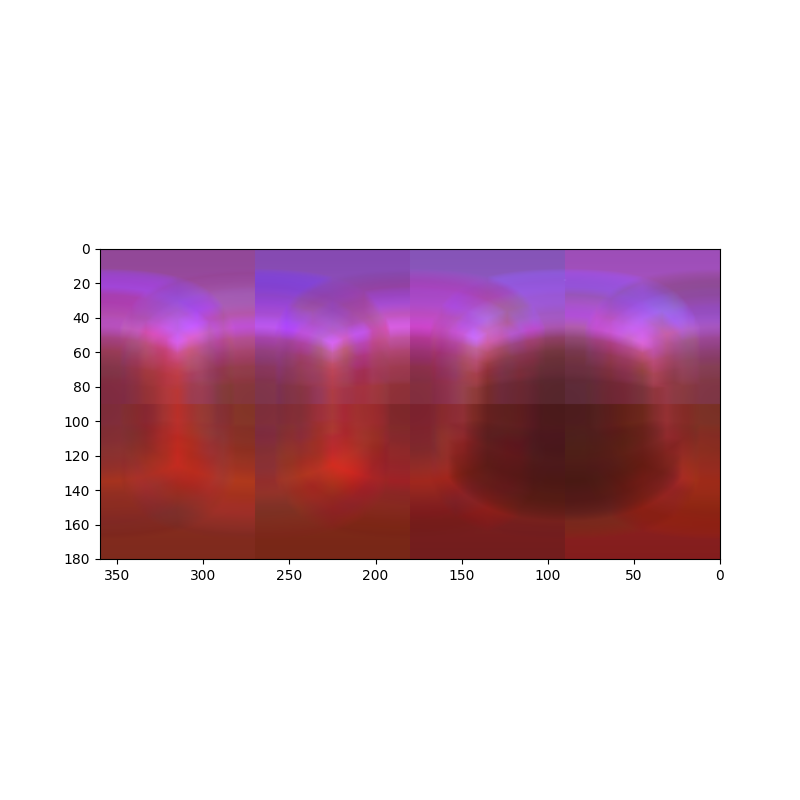
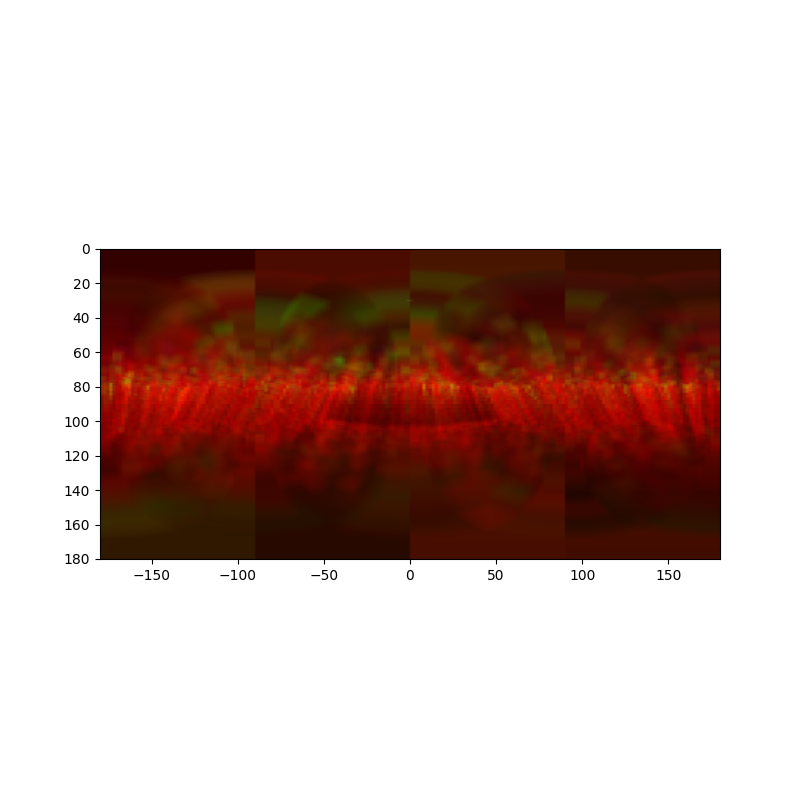
Merge prep

Changed region(s): [[0.125, 0.3125, 0.9062, 0.7188]]

diff --git a/src/simulation.py b/src/simulation.py
@@ -21,6 +21,9 @@ class Atmosphere:
         for idx in np.ndindex(self._shape):
             self._source_function[idx] = []  # liste vide par voxel
 
+        self._source_function_integrated = None
+        self._spectral_source_function = None
+
     def in_box(self, position, index=False):
         if index:
             return all(0 <= position[i] < self._shape[i] for i in range(3))
@@ -137,16 +140,23 @@ class Atmosphere:
         if return_lengths:
             return length_in_cell
         
-    def source_function_integrated(self):
-        """Compute integrated (over λ) energy per cell on demand."""
-        integrated = np.zeros(self._shape, dtype=float)
+    def integrate_source_function(self):
+        """Compute total luminosity per cell on demand."""
+        total = np.zeros(self._shape, dtype=float)
         for idx in np.ndindex(self._shape):
             ev = self._source_function[idx]
             if ev:
-                integrated[idx] = sum(e for (_, e) in ev)
-        return integrated
+                total[idx] = sum(e for (_, e) in ev)
+        self._source_function_integrated = total
+        return total
     
-    def source_function_spectral(self, wavelength_bins):
+    def source_function_integrated(self):
+        """Return integrated source function, computing if necessary."""
+        if self._source_function_integrated is None:
+            return self.integrate_source_function()
+        return self._source_function_integrated
+
+    def compute_source_function_spectral(self, wavelength_bins):
         """Compute spectral energy per cell on demand."""
         n_bins = len(wavelength_bins) - 1
         spectral = np.zeros(self._shape + (n_bins,), dtype=float)
@@ -157,8 +167,14 @@ class Atmosphere:
                     ib = np.searchsorted(wavelength_bins, lam) - 1
                     ib = 0 if ib < 0 else (n_bins-1 if ib >= n_bins else ib)
                     spectral[idx + (ib,)] += e
+        self._spectral_source_function = spectral
         return spectral
     
+    def spectral_source_function(self, wavelength_bins):
+        """Return spectral source function, computing if necessary."""
+        if self._spectral_source_function is None:
+            return self.compute_source_function_spectral(wavelength_bins)
+        return self._spectral_source_function
 
     def cell_size(self):
         return self._cell_size
@@ -249,7 +265,7 @@ class PhotonPacket:
         return self._lambda
 
 class Star:
-    def __init__(self, model= 'Sun',T=None, R=None, D=None, direction= (0, 0)):
+    def __init__(self, model= None,T=None, R=None, D=None, direction= (0, 0)):
         if model == 'Sun':
             self.T = 5778  # Kelvin
             self.R = 6.96e8  # meters
@@ -272,11 +288,13 @@ class Star:
         x = np.asarray(x, dtype=float)
         out = np.empty_like(x)
         small = x < 1e-6
-        out[small]  = x[small]**2
-        out[~small] = x[~small]**3 / (np.exp(x[~small]) - 1.0)
+        """ out[small]  = x[small]**2
+        out[~small] = x[~small]**3 / (np.exp(x[~small]) - 1.0) """
+        out[small] = x[small]
+        out[~small] = x[~small] ** 2 / (np.exp(x[~small]) - 1.0)
         return out  # unnormalized, fine for rejection
     
-    def sample_blackbody_x(self, T, N, x_max=20.0, y_max=1.6):
+    def sample_blackbody_x(self, N, x_max=20.0, y_max=1.6):
         """
         Rejection sample x ~ energy PDF. Returns N samples of x.
         NOTE: we track the *number accepted*, not the number of batches.
@@ -296,7 +314,7 @@ class Star:
         return np.concatenate(kept, axis=0)
     
     def lambda_sample(self, N):
-        x_samples = self.sample_blackbody_x(self.T, N)
+        x_samples = self.sample_blackbody_x(N)
         lam_samples = ((h*c) / k_B).value / (self.T * x_samples)  # store if you need lambda-dependent opacities
         return lam_samples
     
@@ -308,7 +326,10 @@ class Star:
         """
 
         lam_samples = self.lambda_sample(N)
-
+        N_blue = len(lam_samples[(lam_samples < 495e-9)& (lam_samples >= 380e-9)])
+        N_green = len(lam_samples[(lam_samples < 570e-9)& (lam_samples >= 495e-9)])
+        N_red = len(lam_samples[(lam_samples < 700e-9)& (lam_samples >= 570e-9)])
+        print(f"Created {N} photon packets: {N_blue} blue, {N_green} green, {N_red} red.")
         if use_physical_units:
             # flux at distance D (W/m^2)
             flux = self._luminosity / (4.0 * np.pi * (self.D ** 2))
@@ -376,7 +397,7 @@ class Observer:
         # per-bin efficiency (sensitivity) for R,G,B order (len = 3)
         if spectral_efficiency is None:
             # default simple eye-like sensitives (relative)
-            self.spectral_efficiency = np.array([0.6, 1.0, 0.9])
+            self.spectral_efficiency = np.array([0.353, 1.0, 0.075])
         else:
             self.spectral_efficiency = np.asarray(spectral_efficiency, dtype=float)
 
@@ -406,13 +427,13 @@ class Observer:
         return np.arctan(np.clip(self.star.R/ self.star.D, 0.0, 1.0))
 
     # -----------------------------------------------------------
-    def compute_length_in_cells(self, initial_position, depth, direction, source_function_spectral, alpha):
+    def integrate_spectral_lum(self, initial_position, depth, direction, spectral_source_function, alpha):
         """
-        Compute the length of the ray in each cell it traverses.
+        Computes the spectral luminosity along a ray.
         initial_position: (x, y, z) coordinates of the starting point
-        depth: distance to propagate
+        depth: distance to integrate along the ray
         direction: (dx, dy, dz) direction vector
-        Returns: 3D array of lengths in each cell
+        Returns: 3D array of spectral luminosity per bin (blue, green, red)
         """
         length_in_cell = np.zeros((self.atm.shape())+ (self._n_bins,), dtype=float)
 
@@ -430,9 +451,9 @@ class Observer:
         Xcell, Ycell, Zcell = np.floor(initial_position/self.atm.cell_size()).astype(int)
 
         while self.atm.in_box([Xcell, Ycell, Zcell], index=True) and t_curr < depth: 
-            t_next = min(tMaxX, tMaxY, tMaxZ)
-            delta = min(t_next, depth) - t_curr
-            length_in_cell[Xcell, Ycell, Zcell] += alpha * delta * source_function_spectral[Xcell, Ycell, Zcell] * np.exp(-alpha * (depth - t_curr))
+            t_next = min(tMaxX, tMaxY, tMaxZ) # distance to next boundary crossing (from initial position)
+            delta = min(t_next, depth) - t_curr # length traveled in this cell
+            length_in_cell[Xcell, Ycell, Zcell] += alpha * delta * spectral_source_function[Xcell, Ycell, Zcell] * np.exp(-alpha * (depth - t_curr))
 
             if t_next == tMaxX:
                 tMaxX += tDeltaX
@@ -469,7 +490,7 @@ class Observer:
         sigma = sigma_prefactor / (np.array(lam_center) ** 4)
         alpha = sigma * rayleigh_n 
 
-        source_function_spectral = self.atm.source_function_spectral(edges)
+        spectral_source_function = self.atm.spectral_source_function(edges)
 
         # loop pixels
         for j in range(self.ny):
@@ -499,7 +520,7 @@ class Observer:
                 depth = self.atm.distance_to_boundary(self.position, dir_vec)
                 if depth <= 0:
                     continue
-                pixel_spectral = self.compute_length_in_cells(self.position, depth, dir_vec, source_function_spectral, alpha)
+                pixel_spectral = self.integrate_spectral_lum(self.position, depth, dir_vec, spectral_source_function, alpha)
                 
                 if include_star:
                     
@@ -510,7 +531,7 @@ class Observer:
                     cos_angle = np.dot(dir_vec, star_dir)
                     angle = np.arccos(np.clip(cos_angle, -1.0, 1.0))
                     #print("Stellar angular radius (rad):", self.star_angular_radius())
-                    if angle < self.star_angular_radius():
+                    if angle < self.star_angular_radius()*2:
                         print(f"Pixel ({i}, {j}) includes star at angle {angle*180/np.pi} deg")
                         # angular size and solid angle of the star
                         alpha_star = self.star_angular_radius()
@@ -549,14 +570,14 @@ class Observer:
         # normalize per channel with efficiency
         rgb = np.zeros_like(img)
         for c in range(3):
-            rgb[:, :, c] = img[:, :, 2 - c] * self.spectral_efficiency[c]
+            rgb[:, :, c] = img[:, :, 2-c] * self.spectral_efficiency[c]
         # normalize to max
         max_val = np.max(rgb)
         if max_val > 0:
             rgb /= max_val
         plt.figure(figsize=(8, 8))
-        extent = [360,0, 180, 0]
-        plt.imshow(rgb, origin='upper', extent=extent)
+        extent = [-180, 180, 180, 0]
+        plt.imshow(rgb, extent=extent)
         #plt.axis('off')
         plt.savefig('./figures/observer_output.png')
         plt.show()
@@ -578,7 +599,7 @@ class Simulation:
                     (self.atmosphere.shape()[2] * self.atmosphere.cell_size())/2]
         self.observer = Observer( self.atmosphere, self.star, 
                             position=obs_pos, 
-                            image_size=(500, 500), fov_deg=(30, 30), 
+                            image_size=(200, 220), fov_deg=(30, 30), 
                             up=np.array([0.0, 1.0, 0.0]), forward=np.array([0.0, 0.0, 1.0])
                         )
 
@@ -599,10 +620,22 @@ class Simulation:
                     photon.move()
                     break
 
-    def plot(self, rays=False):
+    def plot(self, band = None, rays=False):
+        if band is None:
+            luminosity = self.atmosphere.source_function_integrated()
+        else:
+            spectral_source_func = self.atmosphere.spectral_source_function(self.observer.spectral_edges)
+            if band == 'red':
+                luminosity = spectral_source_func[:,:,:,2]
+            elif band == 'green':
+                luminosity = spectral_source_func[:,:,:,1]
+            elif band == 'blue':
+                luminosity = spectral_source_func[:,:,:,0]
+            else:
+                raise ValueError("Band must be one of 'red', 'green', 'blue', or None for total luminosity.")
 
-        norm = colors.Normalize(vmin=np.min(self.atmosphere.source_function_integrated()), vmax=np.max(self.atmosphere.source_function_integrated()))
-        facecolors = cm.rainbow_r(norm(self.atmosphere.source_function_integrated()))
+        norm = colors.Normalize(vmin=np.min(luminosity), vmax=np.max(luminosity))
+        facecolors = cm.rainbow_r(norm(luminosity))
         nx, ny, nz = self.atmosphere.shape()
         cell_size = self.atmosphere.cell_size()
 
@@ -613,7 +646,7 @@ class Simulation:
         X, Y, Z = np.meshgrid(x, y, z, indexing='ij')
         plt.figure()
         ax = plt.axes(projection='3d')
-        ax.voxels(X, Y, Z, self.atmosphere.source_function_integrated() > 0, facecolors=facecolors, edgecolor='k', alpha=0.5)
+        ax.voxels(X, Y, Z, luminosity > 0, facecolors=facecolors, edgecolor='k', alpha=0.5)
         if rays:
             for i in range(self.N):
                 ax.plot(
@@ -628,8 +661,11 @@ class Simulation:
         ax.set_xlim(0, self.atmosphere.shape()[0] * self.atmosphere.cell_size())
         ax.set_ylim(0, self.atmosphere.shape()[1] * self.atmosphere.cell_size())
         ax.set_zlim(0, self.atmosphere.shape()[2] * self.atmosphere.cell_size())
-        plt.colorbar(cm.ScalarMappable(norm=norm, cmap='rainbow_r'), ax=ax, shrink=0.5, aspect=5, label='Intensity')
-        plt.savefig('./figures/simulation_output.png')
+        plt.colorbar(cm.ScalarMappable(norm=norm, cmap='rainbow_r'), ax=ax, shrink=0.5, aspect=5, label='Luminosity Deposited')
+        if band is None:
+            band = 'total'
+        plt.title(f'{band} luminosity deposited')
+        plt.savefig(f'./figures/simulation_output_{band}.png')
         plt.show()
 
     def observe(self):
@@ -640,15 +676,20 @@ class Simulation:
 
 
 if __name__ == "__main__":
-    boxsize = (10, 10, 10)
-    cell_size = 5e3
+    boxsize = (50, 50, 10) # in number of cells
+    cell_size = 1e4 # in meters: 10 km
 
-    N = 10000
-    star = Star(model='Sun', direction=(np.pi/10, np.pi/2))
+    N = 10000 # number of photon packets
+    star = Star(model='Sun', direction=(np.pi/6, 0))
     atm = Atmosphere(shape = boxsize, cell_size=cell_size)
     sim = Simulation(atm, star, N)
     sim.run()
-    sim.plot(rays=False)
+    sim.plot()
+
+    sim.plot(band='blue')
+    sim.plot(band='green')
+    sim.plot(band='red')
+
     sim.observe()
 
     

diff --git a/tests/test_star.py b/tests/test_star.py
@@ -19,10 +19,17 @@ def test_star_luminosity():
 
 def test_star_spectrum():
     """Test the spectral energy distribution of the Star class."""
-    star = simulation.Star(model='Sun')
+    T = 10000 # Temperature of the Sun in Kelvin
+    R = 6.96e8  # Radius of the Sun in meters
+    D = 1.496e11  # Distance from Sun to Earth in meters
+    star = simulation.Star(T=T, R=R, D=D)
 
-    lambda_samples = star.lambda_sample(10000)  # en mètres
-
+    N = 10000
+    lambda_samples = star.lambda_sample(N)  # en mètres
+    N_blue = len(lambda_samples[(lambda_samples < 495e-9)& (lambda_samples >= 380e-9)])
+    N_green = len(lambda_samples[(lambda_samples < 570e-9)& (lambda_samples >= 495e-9)])
+    N_red = len(lambda_samples[(lambda_samples < 700e-9)& (lambda_samples >= 570e-9)])
+    print(f"Created {N} photon packets: {N_blue} blue, {N_green} green, {N_red} red.")
     # grilles et spectre théorique (en m)
     l = np.linspace(1e-9, 3e-6, 1000)  # m
     B_lambda = (2*h*c**2) / (l**5) * 1.0 / (np.exp((h*c) / (l*k_B*star.T)) - 1.0)
@@ -39,7 +46,7 @@ def test_star_spectrum():
 
     # histogramme des échantillons en nm
     lambda_samples_nm = lambda_samples * 1e9
-    bins = np.linspace(lambda_samples_nm.min(), lambda_samples_nm.max(), 50)
+    bins = np.linspace(lambda_samples_nm.min(), lambda_samples_nm.max(), 2000)
     counts, edges = np.histogram(lambda_samples_nm, bins=bins, density=True)
     bin_centers = 0.5 * (edges[:-1] + edges[1:])
 
@@ -50,6 +57,7 @@ def test_star_spectrum():
     plt.plot(bin_centers, counts, drawstyle='steps-mid', label='Sampled histogram', color='C0')
     plt.xlabel('Wavelength (nm)')
     plt.ylabel('PDF (per nm)')
+    plt.xlim(0, 700)
     plt.legend()
     plt.title('Compare sampled wavelengths with energy / photon PDFs')
     plt.tight_layout()
